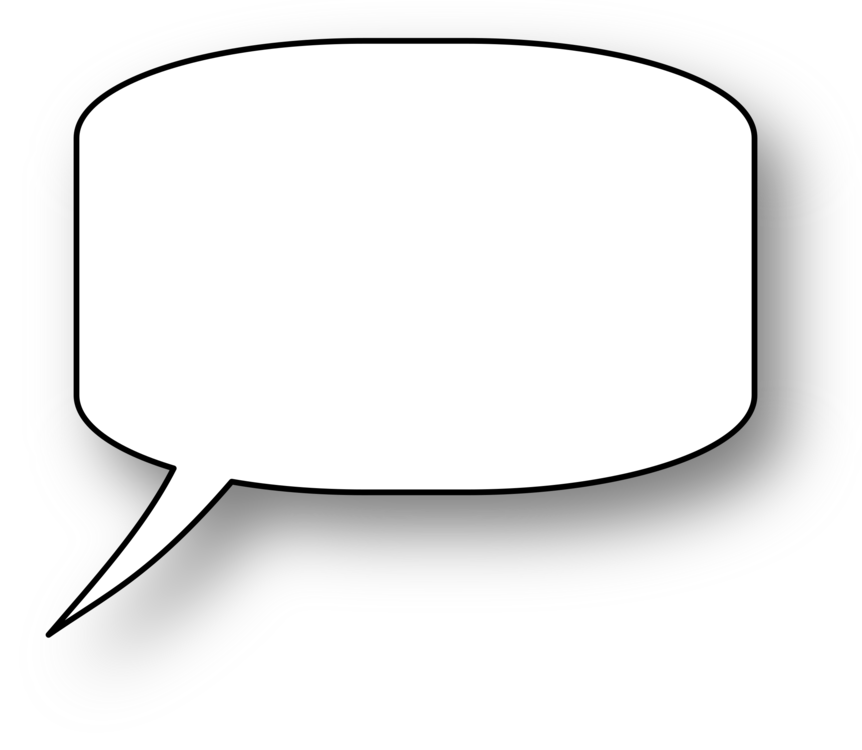
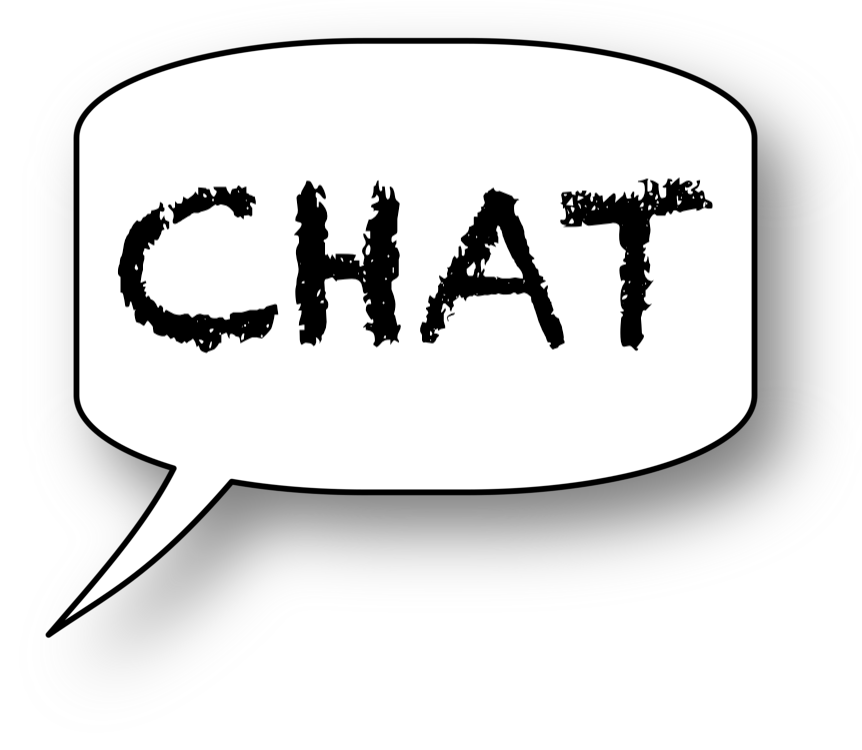
added chat button instead of hovering on ghost for all scenes except locker

Changed region(s): [[0.1206, 0.2453, 0.6636, 0.4907], [0.6334, 0.2147, 0.8445, 0.46]]

diff --git a/src/main/java/nz/ac/auckland/se206/controllers/HallwayController.java b/src/main/java/nz/ac/auckland/se206/controllers/HallwayController.java
@@ -4,9 +4,12 @@ import java.io.IOException;
 import javafx.fxml.FXML;
 import javafx.scene.Scene;
 import javafx.scene.control.Label;
+import javafx.scene.effect.Glow;
+import javafx.scene.effect.Shadow;
 import javafx.scene.image.ImageView;
 import javafx.scene.input.MouseEvent;
 import javafx.scene.layout.Pane;
+import javafx.scene.paint.Color;
 import javafx.scene.shape.Rectangle;
 import javafx.stage.Stage;
 import nz.ac.auckland.se206.GameState;
@@ -23,6 +26,9 @@ public class HallwayController {
   @FXML private Pane chatContainer;
   @FXML private Pane blackboardContainer;
   @FXML private ImageView ghost;
+  @FXML private ImageView chatButton;
+  private Shadow shadow = new Shadow(10, Color.BLACK);
+  private Glow glow = new Glow(0.8);
 
   /** Initializes the room view, it is called when the room loads. */
   public void initialize() {
@@ -35,6 +41,7 @@ public class HallwayController {
   public void addBlackboard() {
     // Adding the blackboard to the scene
     blackboardContainer.getChildren().add(GameState.blackboardController.getPane());
+    chatButton.toFront();
   }
 
   @FXML
@@ -71,7 +78,7 @@ public class HallwayController {
     Scene sceneRectangleIsIn = rectangle.getScene();
     sceneRectangleIsIn.setRoot(SceneManager.getUiRoot(AppUi.GYMNASIUM));
 
-   if (!GameState.isChatOpen) {
+    if (!GameState.isChatOpen) {
       // Resizing the window so the scene fits
       sceneRectangleIsIn.getWindow().sizeToScene();
     }
@@ -86,6 +93,7 @@ public class HallwayController {
     if (GameState.isChatOpen) {
       Stage stage = (Stage) chatContainer.getScene().getWindow();
       stage.setWidth(1109);
+      stage.centerOnScreen();
       GameState.lockerController.openChat();
     }
 
@@ -101,8 +109,9 @@ public class HallwayController {
   }
 
   @FXML
-  public void onClickGhost() {
-    System.out.println("ghost clicked");
+  private void onClickChat() {
+    System.out.println("chat clicked");
+    chatButton.setOpacity(0.5);
     // Add the chat to the chat container
     if (!GameState.chatInHall) {
       openChat();
@@ -118,17 +127,13 @@ public class HallwayController {
   }
 
   @FXML
-  private void onEnterGhost() {
-    System.out.println("hover on ghost");
-    // Add the chat to the chat container
-    if (!GameState.chatInHall) {
-      openChat();
-    }
+  private void enterChatButton() {
+    chatButton.setOpacity(0.5);
+  }
 
-    if (!GameState.isChatOpen) {
-      GameState.chatController.openChat();
-      GameState.isChatOpen = true;
-    }
+  @FXML
+  private void releaseChat() {
+    chatButton.setOpacity(1);
   }
 
   public void openChat() {
@@ -137,5 +142,17 @@ public class HallwayController {
     GameState.chatInLocker = false;
     chatContainer.getChildren().add(GameState.chatController.getChatPane());
     GameState.chatInHall = true;
+  }
+
+  @FXML
+  private void onEnterGhost() {
+    System.out.println("hover on ghost");
+    ghost.setEffect(shadow);
+  }
+
+  @FXML
+  private void onExitGhost() {
+    System.out.println("hover off ghost");
+    ghost.setEffect(null);
   }
 }

diff --git a/src/main/java/nz/ac/auckland/se206/controllers/GymnasiumController.java b/src/main/java/nz/ac/auckland/se206/controllers/GymnasiumController.java
@@ -4,9 +4,12 @@ import java.io.IOException;
 import javafx.fxml.FXML;
 import javafx.scene.Scene;
 import javafx.scene.control.Label;
+import javafx.scene.effect.Glow;
+import javafx.scene.effect.Shadow;
 import javafx.scene.image.ImageView;
 import javafx.scene.input.MouseEvent;
 import javafx.scene.layout.Pane;
+import javafx.scene.paint.Color;
 import javafx.scene.shape.Rectangle;
 import nz.ac.auckland.se206.GameState;
 import nz.ac.auckland.se206.SceneManager;
@@ -20,6 +23,9 @@ public class GymnasiumController {
   @FXML private ImageView ghost;
   @FXML private Pane chatContainer;
   @FXML private Pane blackboardContainer;
+  @FXML private ImageView chatButton;
+  private Shadow shadow = new Shadow(10, Color.BLACK);
+  private Glow glow = new Glow(0.8);
   private int goalCount = 0;
 
   /** Initializes the room view, it is called when the room loads. */
@@ -64,8 +70,9 @@ public class GymnasiumController {
   public void clickRedButton() {}
 
   @FXML
-  private void onClickGhost() {
-    System.out.println("ghost clicked");
+  private void onClickChat() {
+    System.out.println("chat clicked");
+    chatButton.setOpacity(0.5);
     // Add the chat to the chat container
     if (!GameState.chatInGym) {
       openChat();
@@ -81,17 +88,25 @@ public class GymnasiumController {
   }
 
   @FXML
+  private void releaseChat() {
+    chatButton.setOpacity(1);
+  }
+
+  @FXML
+  private void enterChatButton() {
+    chatButton.setOpacity(0.5);
+  }
+
+  @FXML
   private void onEnterGhost() {
     System.out.println("hover on ghost");
-    // Add the chat to the chat container
-    if (!GameState.chatInGym) {
-      openChat();
-    }
+    ghost.setEffect(shadow);
+  }
 
-    if (!GameState.isChatOpen) {
-      GameState.chatController.openChat();
-      GameState.isChatOpen = true;
-    }
+  @FXML
+  private void onExitGhost() {
+    System.out.println("hover off ghost");
+    ghost.setEffect(null);
   }
 
   public void openChat() {
@@ -105,5 +120,6 @@ public class GymnasiumController {
   public void addBlackboard() {
     // Adding the blackboard to the scene
     blackboardContainer.getChildren().add(GameState.blackboardController.getPane());
+    chatButton.toFront();
   }
 }

diff --git a/src/main/java/nz/ac/auckland/se206/controllers/RoomController.java b/src/main/java/nz/ac/auckland/se206/controllers/RoomController.java
@@ -79,6 +79,9 @@ public class RoomController {
   @FXML private Label exitLabel;
   @FXML private ImageView ghost1;
   @FXML private Pane blackboardContainer;
+  @FXML private ImageView chatButton;
+  private Shadow shadow = new Shadow(10, Color.BLACK);
+  private Glow glow = new Glow(0.8);
 
   /**
    * Initializes the room view, it is called when the room loads.
@@ -97,11 +100,10 @@ public class RoomController {
   public void addBlackboard() {
     // Adding the blackboard to the scene
     blackboardContainer.getChildren().add(GameState.blackboardController.getPane());
+    chatButton.toFront();
   }
 
   public void responseLoading() {
-    Shadow shadow = new Shadow(10, Color.BLACK);
-    Glow glow = new Glow(0.8);
     ghost.setEffect(shadow);
     Random random = new Random();
     int randomNumber = random.nextInt(3); // Generates a random number 0, 1, or 2
@@ -195,8 +197,9 @@ public class RoomController {
   }
 
   @FXML
-  private void onClickGhost() {
-    System.out.println("ghost clicked");
+  private void onClickChat() {
+    System.out.println("chat clicked");
+    chatButton.setOpacity(0.5);
     // Add the chat to the chat container
     if (!GameState.chatInRoom) {
       openChat();
@@ -212,17 +215,25 @@ public class RoomController {
   }
 
   @FXML
+  private void releaseChat() {
+    chatButton.setOpacity(1);
+  }
+
+  @FXML
+  private void enterChatButton() {
+    chatButton.setOpacity(0.5);
+  }
+
+  @FXML
   private void onEnterGhost() {
     System.out.println("hover on ghost");
-    // Add the chat to the chat container
-    if (!GameState.chatInRoom) {
-      openChat();
-    }
+    ghost.setEffect(shadow);
+  }
 
-    if (!GameState.isChatOpen) {
-      GameState.chatController.openChat();
-      GameState.isChatOpen = true;
-    }
+  @FXML
+  private void onExitGhost() {
+    System.out.println("hover off ghost");
+    ghost.setEffect(null);
   }
 
   public void openChat() {

diff --git a/src/main/java/nz/ac/auckland/se206/controllers/LockerController.java b/src/main/java/nz/ac/auckland/se206/controllers/LockerController.java
@@ -66,10 +66,12 @@ public class LockerController {
     if (GameState.isChatOpen) {
       Stage stage = (Stage) ghost.getScene().getWindow();
       stage.setWidth(869);
+      stage.centerOnScreen();
       GameState.isChatOpen = false;
     } else {
       Stage stage = (Stage) ghost.getScene().getWindow();
       stage.setWidth(1109);
+      stage.centerOnScreen();
       GameState.isChatOpen = true;
     }
   }
@@ -85,6 +87,7 @@ public class LockerController {
     if (!GameState.isChatOpen) {
       Stage stage = (Stage) ghost.getScene().getWindow();
       stage.setWidth(1109);
+      stage.centerOnScreen();
       GameState.isChatOpen = true;
     }
   }
@@ -251,6 +254,7 @@ public class LockerController {
     if (GameState.isChatOpen) {
       Stage stage = (Stage) chatContainer.getScene().getWindow();
       stage.setWidth(1340);
+      stage.centerOnScreen();
       GameState.hallController.openChat();
     }
 

diff --git a/src/main/java/nz/ac/auckland/se206/App.java b/src/main/java/nz/ac/auckland/se206/App.java
@@ -62,18 +62,15 @@ public class App extends Application {
             });
     loadRoom.start();
 
+    SceneManager.addUi(AppUi.BLACKBOARD, loadFxml("blackboard"));
     SceneManager.addUi(AppUi.HALLWAY, App.loadFxml("hallway"));
     SceneManager.addUi(AppUi.GYMNASIUM, App.loadFxml("gymnasium"));
     SceneManager.addUi(AppUi.STARTSCREEN, loadFxml("startScreen"));
     SceneManager.addUi(AppUi.LOCKER, App.loadFxml("locker"));
     SceneManager.addUi(AppUi.CHAT, loadFxml("chat"));
-    SceneManager.addUi(AppUi.BLACKBOARD, loadFxml("blackboard"));
 
     scene = new Scene(SceneManager.getUiRoot(AppUi.STARTSCREEN));
     stage.setScene(scene);
-    // Set the X and Y coordinates to 0 to open the window at the very left of the screen
-    stage.setX(0);
-    stage.setY(0);
     stage.show();
   }
 }

diff --git a/src/main/java/nz/ac/auckland/se206/controllers/ChatController.java b/src/main/java/nz/ac/auckland/se206/controllers/ChatController.java
@@ -121,11 +121,13 @@ public class ChatController {
   public void closeChat() {
     Stage stage = (Stage) chatPane.getScene().getWindow();
     stage.setWidth(1100);
+    stage.centerOnScreen();
   }
 
   public void openChat() {
     Stage stage = (Stage) chatPane.getScene().getWindow();
     stage.setWidth(1340);
+    stage.centerOnScreen();
   }
 
   /**
